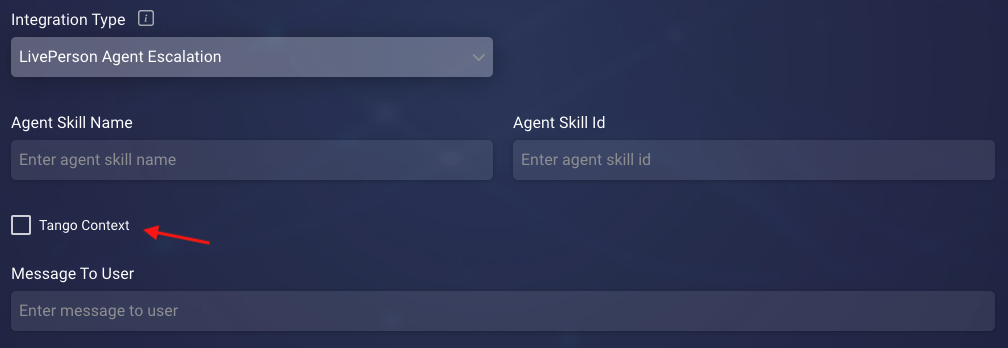
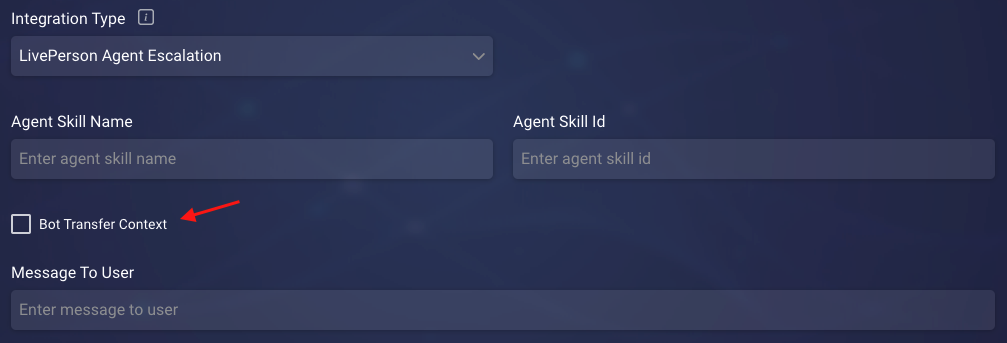
BA-3631 Bot Transfer updates

diff --git a/pages/documents/ConversationalAI/ConversationBuilder/Bots/MultiBotCollaboration.md b/pages/documents/ConversationalAI/ConversationBuilder/Bots/MultiBotCollaboration.md
@@ -16,36 +16,33 @@ When developing bots, it's considered a best practice to develop specialized bot
 
 However, while it's advantageous to have multiple--even many--bots that automate business tasks, this also means that a single bot might not be able to handle all of a consumer's requests. The consumer's requests might require the support of multiple bots, which means that a bot-to-bot transfer of the conversation is required.
 
-This type of collaboration and hand-off between bots is sometimes called the "bot tango."
-
 ### About bot-to-bot transfers
 
 A bot-to-bot transfer is a [LivePerson agent escalation](conversation-builder-integrations-liveperson-agent-escalation-integrations.html) where you transfer the conversation to a skill that's assigned to a bot agent in specific. In this way, it's very similar to transferring a conversation to a live agent. The bot must be set up as a user agent; the user agent must be assigned a skill; and the bot must be deployed, as you would normally do to connect a bot to LiveEngage.
 
 Keep in mind that receiver bot is different from the sender bot, so the receiver bot won't have all the context (variables, etc.) that you might have collected in the sender bot. You can share this information between bots using the [Context Session Store](conversation-builder-scripting-functions-manage-the-context-session-store.html).
 
-### Making transfers "seamless" with the Tango Context
+### Making transfers "seamless" with the Bot Transfer Context
 
 In a bot-to-bot transfer, what makes the transfer *seamless* to the consumer is passing the conversational context--an intent or user message--from the sender bot to the receiver bot. With this information in hand, after the transfer the receiver bot can immediately start the appropriate dialog. The result is a graceful hand-off.
 
 To pass the conversational context to the receiver bot, you need to do two things:
 
-1. In the [LivePerson Agent Escalation](conversation-builder-integrations-liveperson-agent-escalation-integrations.html) integration, select the **Tango Context** checkbox.
+1. In the [LivePerson Agent Escalation](conversation-builder-integrations-liveperson-agent-escalation-integrations.html) integration, select the **Bot Transfer Context** checkbox.
 
     <img class="fancyimage" style="width:800px" src="img/ConvoBuilder/bots_collab1.png">
 
-    This enables your use of the Tango Context object that is sent from the sender bot to the receiver bot during the transfer. Now you can set an intent ID or user message in the object.
+    This enables your use of the Bot Transfer Context object that is sent from the sender bot to the receiver bot during the transfer. Now you can set an intent ID or user message in the object.
 
-2. Somewhere in the dialog *before* calling the escalation, use the `setBotTangoContextVariable` scripting function to set either an intent ID or a user message in the Tango Context object. In our example below, we've set an intent ID, and we've done this in the Pre-Process Code in the integration interaction.
+2. Somewhere in the dialog *before* calling the escalation, use either the [setBotTransferIntentId](conversation-builder-scripting-functions-get-set-contextual-data.html#set-bot-transfer-intent-id) function or the [setBotTransferUserMessage](conversation-builder-scripting-functions-get-set-contextual-data.html#set-bot-transfer-user-message) function to set either an intent ID or a user message in the Bot Transfer Context object. In our example below, we've set an intent ID, and we've done this in the Pre-Process Code in the integration interaction.
 
     <img class="fancyimage" style="width:800px" src="img/ConvoBuilder/bots_collab2.png">
 
-    For details on `setBotTangoContextVariable`, see [here](conversation-builder-scripting-functions-get-set-contextual-data.html#get-and-set-bot-tango-context-variable).
+During the escalation (transfer), the receiver bot checks for the availability of a Bot Transfer Context object. If the object is available, the bot then checks whether it contains an intent ID. If an intent ID isn't available, it then checks whether the object contains a user message. Based on these findings, after the transfer is completed, the receiver bot starts the  appropriate dialog, one that's tied to the intent or that's matched to the user message.
 
-During the escalation (transfer), the receiver bot checks for the availability of a Tango Context object. If the object is available, the bot then checks whether it contains an intent ID. If an intent ID isn't available, it then checks whether the object contains a user message. Based on these findings, after the transfer is completed, the receiver bot starts the  appropriate dialog, one that's tied to the intent or that's matched to the user message.
+### Transfers without the Bot Transfer Context
 
-### The default transfer flow
-You don't have to enable the Transfer Context object in the LivePerson agent escalation and set an intent ID or user message in the object, although this does make the transfer more seamless. If you don't do this, the default transfer (escalation) flow is used. This works as follows:
+You don't have to enable the Bot Transfer Context object in the LivePerson agent escalation and set an intent ID or user message in the object, although this does make the transfer more seamless. If you don't do this, the default transfer (escalation) flow is used. This works as follows:
 
 NEED TO INTEGRATE THIS INFO:
 
@@ -58,11 +55,7 @@ there’s 2 cases from transferring from bot A to bot B:
 
 #### Which do I set - the intent ID or the user message?
 
-You can set either the intent ID or the user message in the Tango Context object. 
-
-Because intents are tied to dialogs, setting the intent ID effectively lets you specify the actual dialog to start. No processing of a user message is required.
-
-If you set the user message instead, the receiver bot must match the user message with a pattern or an intent to determine the appropriate dialog to start.
+You can set either the intent ID or the user message in the Bot Transfer Context object. Because intents are tied to dialogs, setting the intent ID effectively lets you specify the actual dialog to start. No processing of a user message is required. If you set the user message instead, the receiver bot must match the user message with a pattern or an intent to determine the appropriate dialog to start.
 
 #### Can I set both the intent ID and the user message?
 
@@ -74,10 +67,10 @@ NEED TO ADD
 
 #### How do I transfer other data from the sender bot to the receiver bot?
 
-You can only set an intent ID or user message in the Tango Context object. To transfer other data between the sender bot and receiver bot, use the [Context Session Store](conversation-builder-scripting-functions-manage-the-context-session-store.html).
+You can only set an intent ID or user message in the Bot Transfer Context object. To transfer other data between the sender bot and receiver bot, use the [Context Session Store](conversation-builder-scripting-functions-manage-the-context-session-store.html).
 
 #### What happens if I enable the Transfer Context object, but I don't set an intent ID or user message?
 
-The purpose of enabling the Transfer Context object is to be able to set an intent ID or user message, so typically this scenario shouldn't happen. However, if the receiver bot doesn't find an intent ID or user message in the Tango Context object, the default transfer (escalation) flow is used.
+The purpose of enabling the Bot Transfer Context object is to be able to set an intent ID or user message, so typically this scenario shouldn't happen. However, if the receiver bot doesn't find an intent ID or user message in the Bot Transfer Context object, the default transfer (escalation) flow is used.
 
-Conversely, if you set an intent ID or user message, but you don't enable the Tango Context object, the intent ID or user message is not evaluated. Here again, the default transfer (escalation) flow is used.
+Conversely, if you set an intent ID or user message, but you don't enable the Bot Transfer Context object, the intent ID or user message is not evaluated. Here again, the default transfer (escalation) flow is used.

diff --git a/pages/documents/ConversationalAI/ConversationBuilder/Integrations/integrations_LivePersonAgentEscalation.md b/pages/documents/ConversationalAI/ConversationBuilder/Integrations/integrations_LivePersonAgentEscalation.md
@@ -29,7 +29,7 @@ For information on performing bot-to-bot transfers in specific, see [here](conve
     - **Agent Skill Id**: Specify the ID of the skill to which to transfer the conversation. The skill is defined in LiveEngage. Here you can specify the ID using a bot context variable like `{$botContext.skillId}`, or you can enter a direct, numeric value.
         
         When the escalation is attempted, the Agent Skill Id is evaluated first; if it isn't numeric, the fallback message is sent to the user. If the value is numeric, but the bot doesn't respond for more than 3 minutes, an attempt is made to transfer the escalation to the fallback skill ID *if one is specified in the [agent connector](conversation-builder-testing-deployment-deploying-to-liveengage.html#add-an-agent-connector)*. Otherwise, the escalation fails. For information on handling failures, see below [here](conversation-builder-integrations-liveperson-agent-escalation-integrations.html#handle-transfer-failures). 
-    - **Bot Transfer Context**: Used for bot-to-bot escalations (transfers) only. Select this to enable your use of the Bot Transfer Context object that is sent from the sender bot to the receiver bot during the transfer. Once enabled, before calling the integration, you can use the [setBotTangoContextVariable](conversation-builder-scripting-functions-get-set-contextual-data.html#get-and-set-bot-tango-context-variable) function to set an intent ID or user message in the object. This lets the receiver bot know the appropriate dialog to start after the transfer. For more information on bot-to-bot transfers, see [here](conversation-builder-bots-bot-to-bot-transfers.html).
+    - **Bot Transfer Context**: Used for bot-to-bot escalations (transfers) only. Select this to enable your use of the Bot Transfer Context object that is sent from the sender bot to the receiver bot during the transfer. Once enabled, before calling the integration, you can use scripting functions to set an intent ID or user message in the object. This lets the receiver bot know the appropriate dialog to start after the transfer. For more on this and bot-to-bot transfers in general, see [here](conversation-builder-bots-bot-to-bot-transfers.html).
     - **Message to User**: Use this field to guarantee that the user will see a message prior to being transferred, something like, “Hold on while I connect you with an agent.” You can enter either static text, use a variable, or a combination of both. The system will send this message as a part of the transfer API post body. This field is required, so if you don't want to send a message, enter "BLANK_MESSAGE" here. That satisfies the underlying, system requirement for a message, but it doesn't actually send one. 
     - **Transform Result Script**: If applicable, use this section to write JavaScript code that transforms the raw result (typically in JSON format), so you can use the information in the bot's dialog. For more on this, see [Transform an API result](conversation-builder-integrations-integration-basics.html#transform-an-api-result).
     - **Custom Data Fields**: Add the fields that will store the result data in key/value pairs. Users who are tasked with creating bots can use and display this data in interactions by referencing these fields as described [here](conversation-builder-interactions-interaction-basics.html#display-variables-in-interactions).

diff --git a/pages/documents/ConversationalAI/ConversationBuilder/ScriptingFunctions/getSetContextualData.md b/pages/documents/ConversationalAI/ConversationBuilder/ScriptingFunctions/getSetContextualData.md
@@ -45,32 +45,33 @@ if (count > 10) {
 }
 ```
 
+### Set bot transfer intent ID
 
-### Get and set bot Tango Context variable
-
-The Tango Context is an object that is sent from the sender bot to the receiver bot during a bot-to-bot transfer (escalation). You can set an intent ID or user message in this object so that it gets passed to the receiver bot. In this way, the receiver bot can know the appropriate dialog to start after the transfer.
-
-The **Set** Bot Tango Context Variable function is used for setting an intent ID or user message in the Tango Context object.
-
-The **Get** Bot Tango Context Variable function is used for getting the intent ID or user message in the Tango Context object. If the variable isn't set, this method returns Null.
-
-{: .important}
-For more details on bot-to-bot transfers, see [here](conversation-builder-bots-bot-to-bot-transfers.html).
+Use the `setBotTransferIntentId` function to set an intent ID in the Bot Transfer Context object that is sent from the sender bot to the receiver bot during a bot-to-bot transfer (escalation). For more on using this context object and bot-to-bot transfers in general, see [here](conversation-builder-bots-bot-to-bot-transfers.html).
 
 | Function Name | Arguments | Returns |
 | --- | --- | --- |
-| `getBotTangoContextVariable(name)` | *name (string)* – The name of the variable to retrieve, either "bot_tango_intent_id" or "bot_tango_user_text" | The string defined by `name` |
-| `setBotTangoContextVariable(name, value)` | *name (string)* – The name of the variable to set, either "bot_tango_intent_id" or "bot_tango_user_text"<br><br> *value (object)* – The value to be stored<br><br> | None |
+| `setBotTransferIntentId(value)` | *value (String)* – The intent ID to set in the Bot Transfer Context object | None |
 
 #### Example
 
-In the examples below, we're using `setBotTangoContextVariable` to set an intent ID and a user message, respectively.
-
 ```javascript
-botContext.setBotTangoContextVariable("bot_tango_intent_id","d46688d7-7ec2-44a4-a09c-b500f728ee05");
-botContext.setBotTangoContextVariable("bot_tango_user_text","order status");
+botContext.setBotTransferIntentId("d46688d7-7ec2-44a4-a09c-b500f728ee05");
 ```
 
+### Set bot transfer user message
+
+Use the `setBotTransferUserMessage` function to set a user message in the Bot Transfer Context object that is sent from the sender bot to the receiver bot during a bot-to-bot transfer (escalation). For more on this context object and bot-to-bot transfers in general, see [here](conversation-builder-bots-bot-to-bot-transfers.html).
+
+| Function Name | Arguments | Returns |
+| --- | --- | --- |
+| `setBotTransferUserMessage(value)` | *value (String)* – The user message to set in the Bot Transfer Context object | None |
+
+#### Example
+
+```javascript
+botContext.setBotTransferUserMessage("order status");
+```
 
 ### Get environment variable
 
